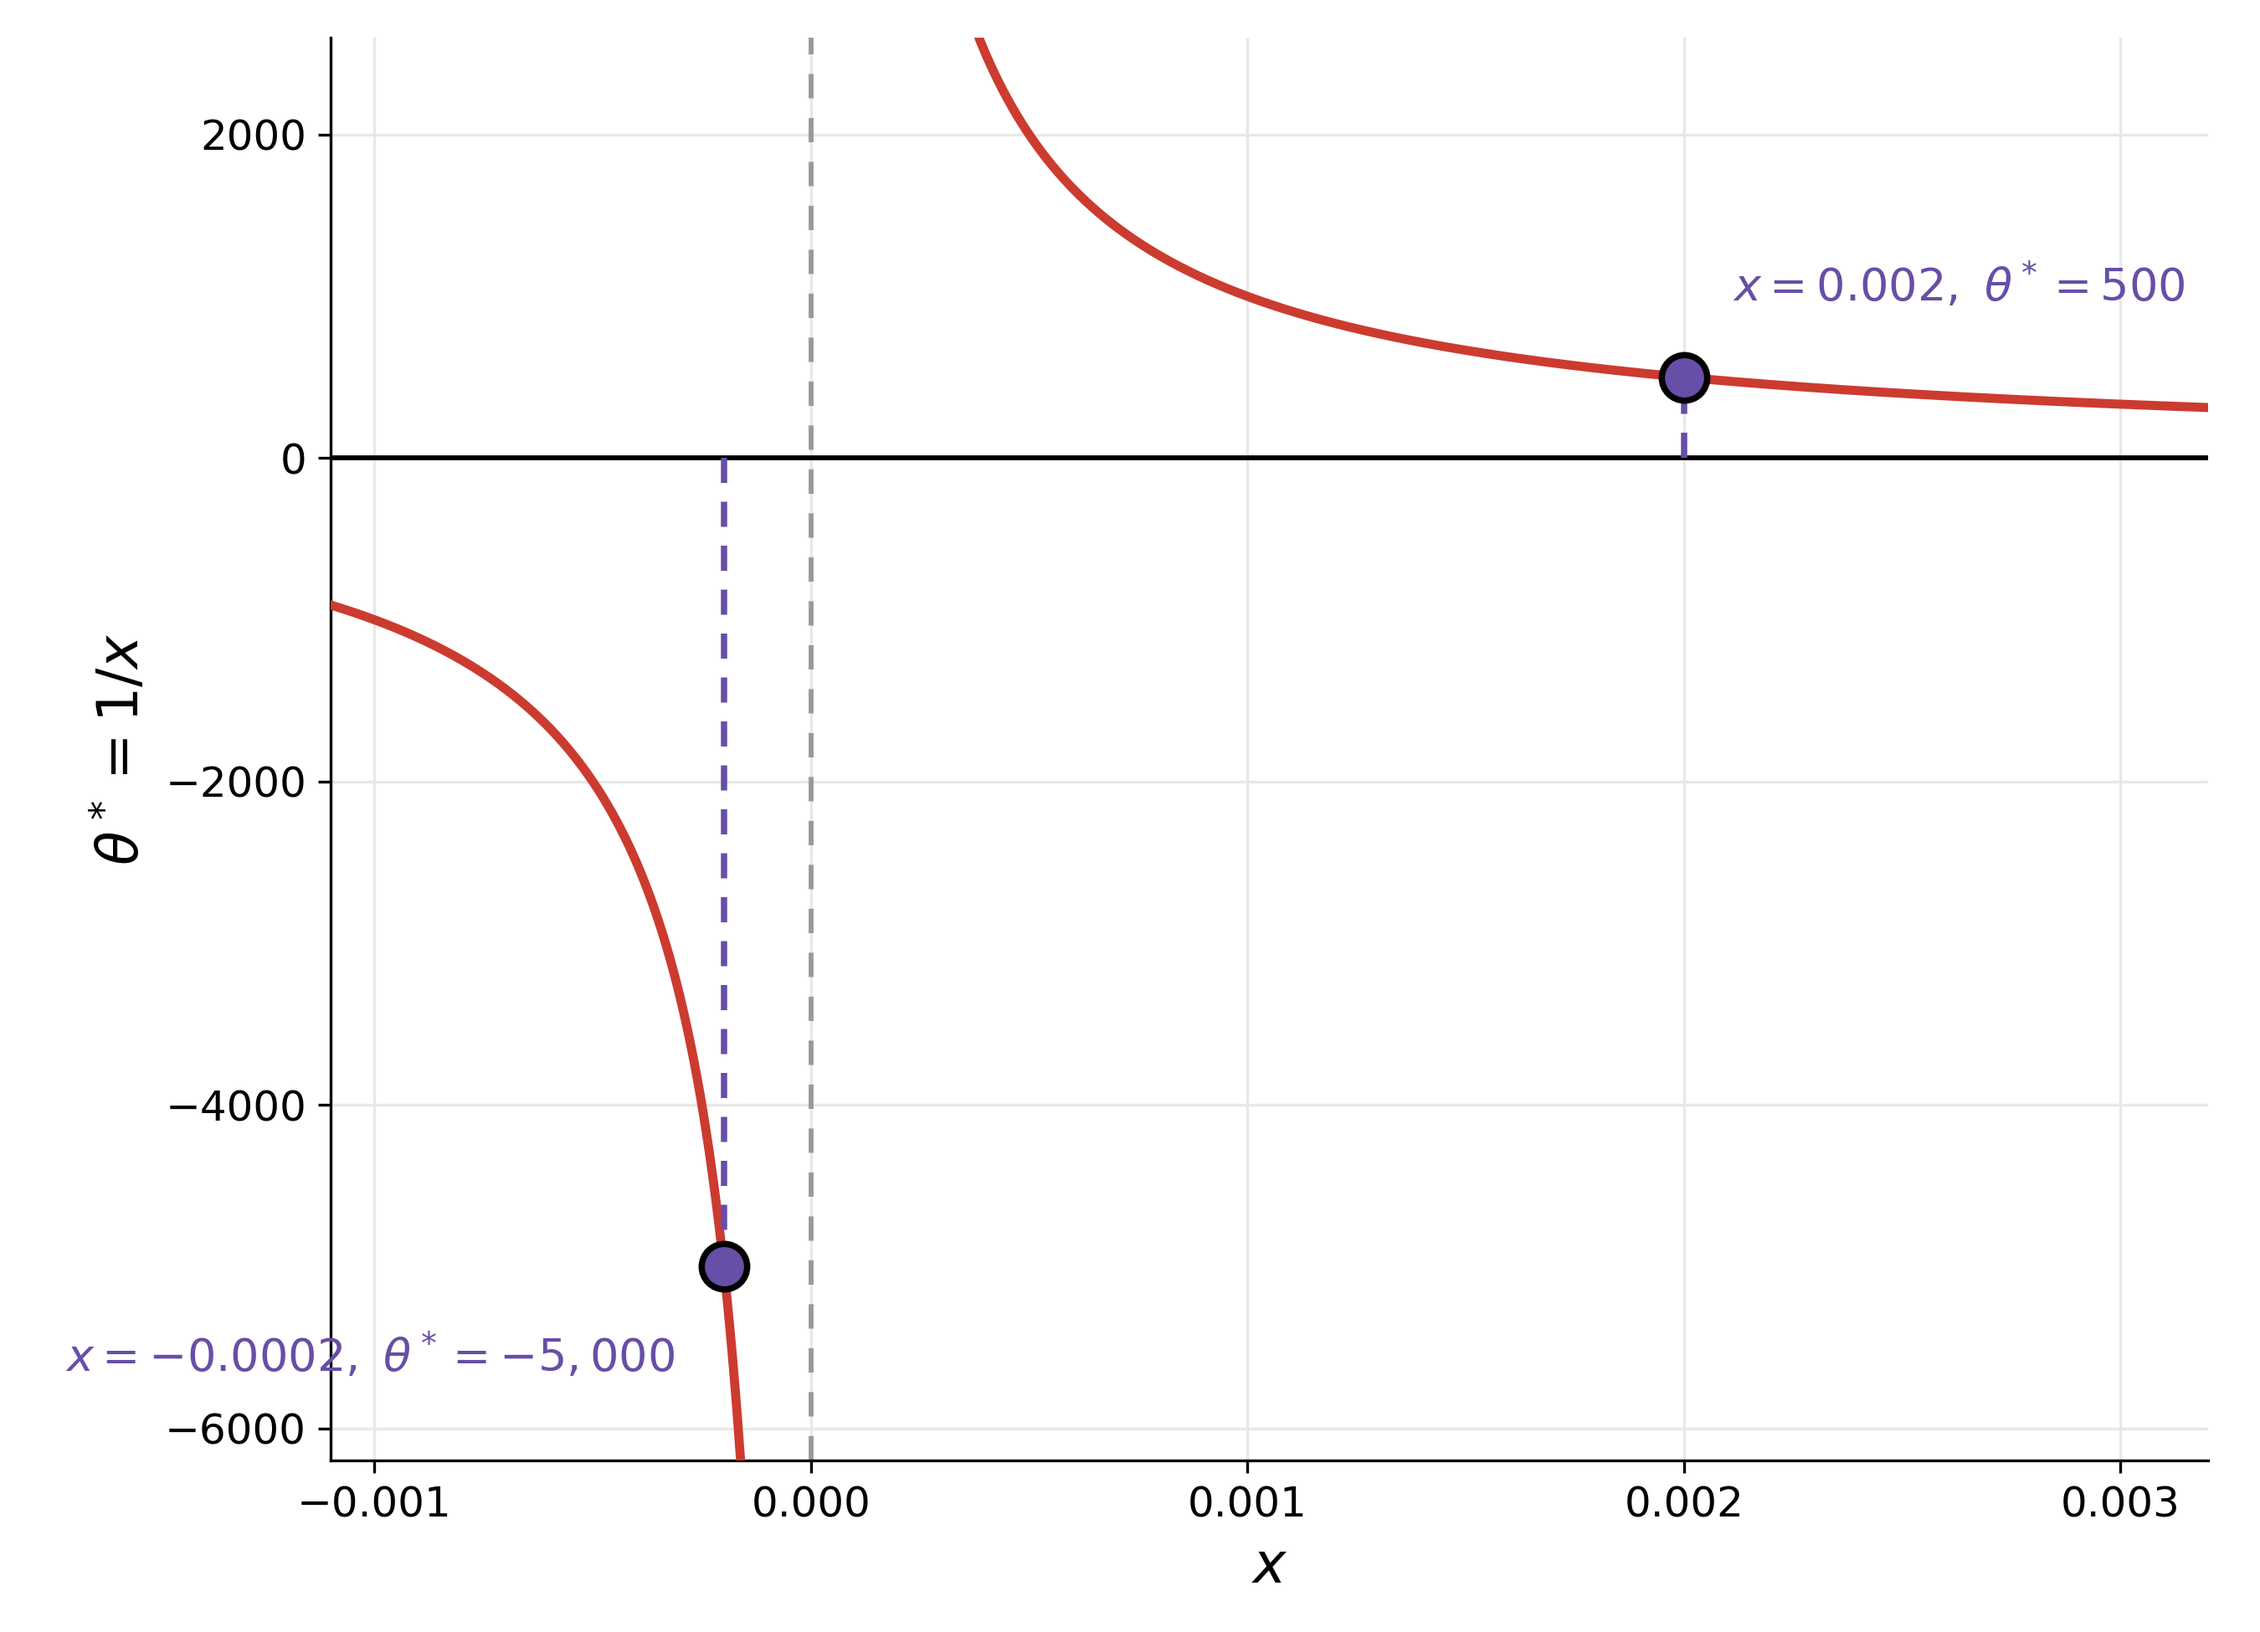
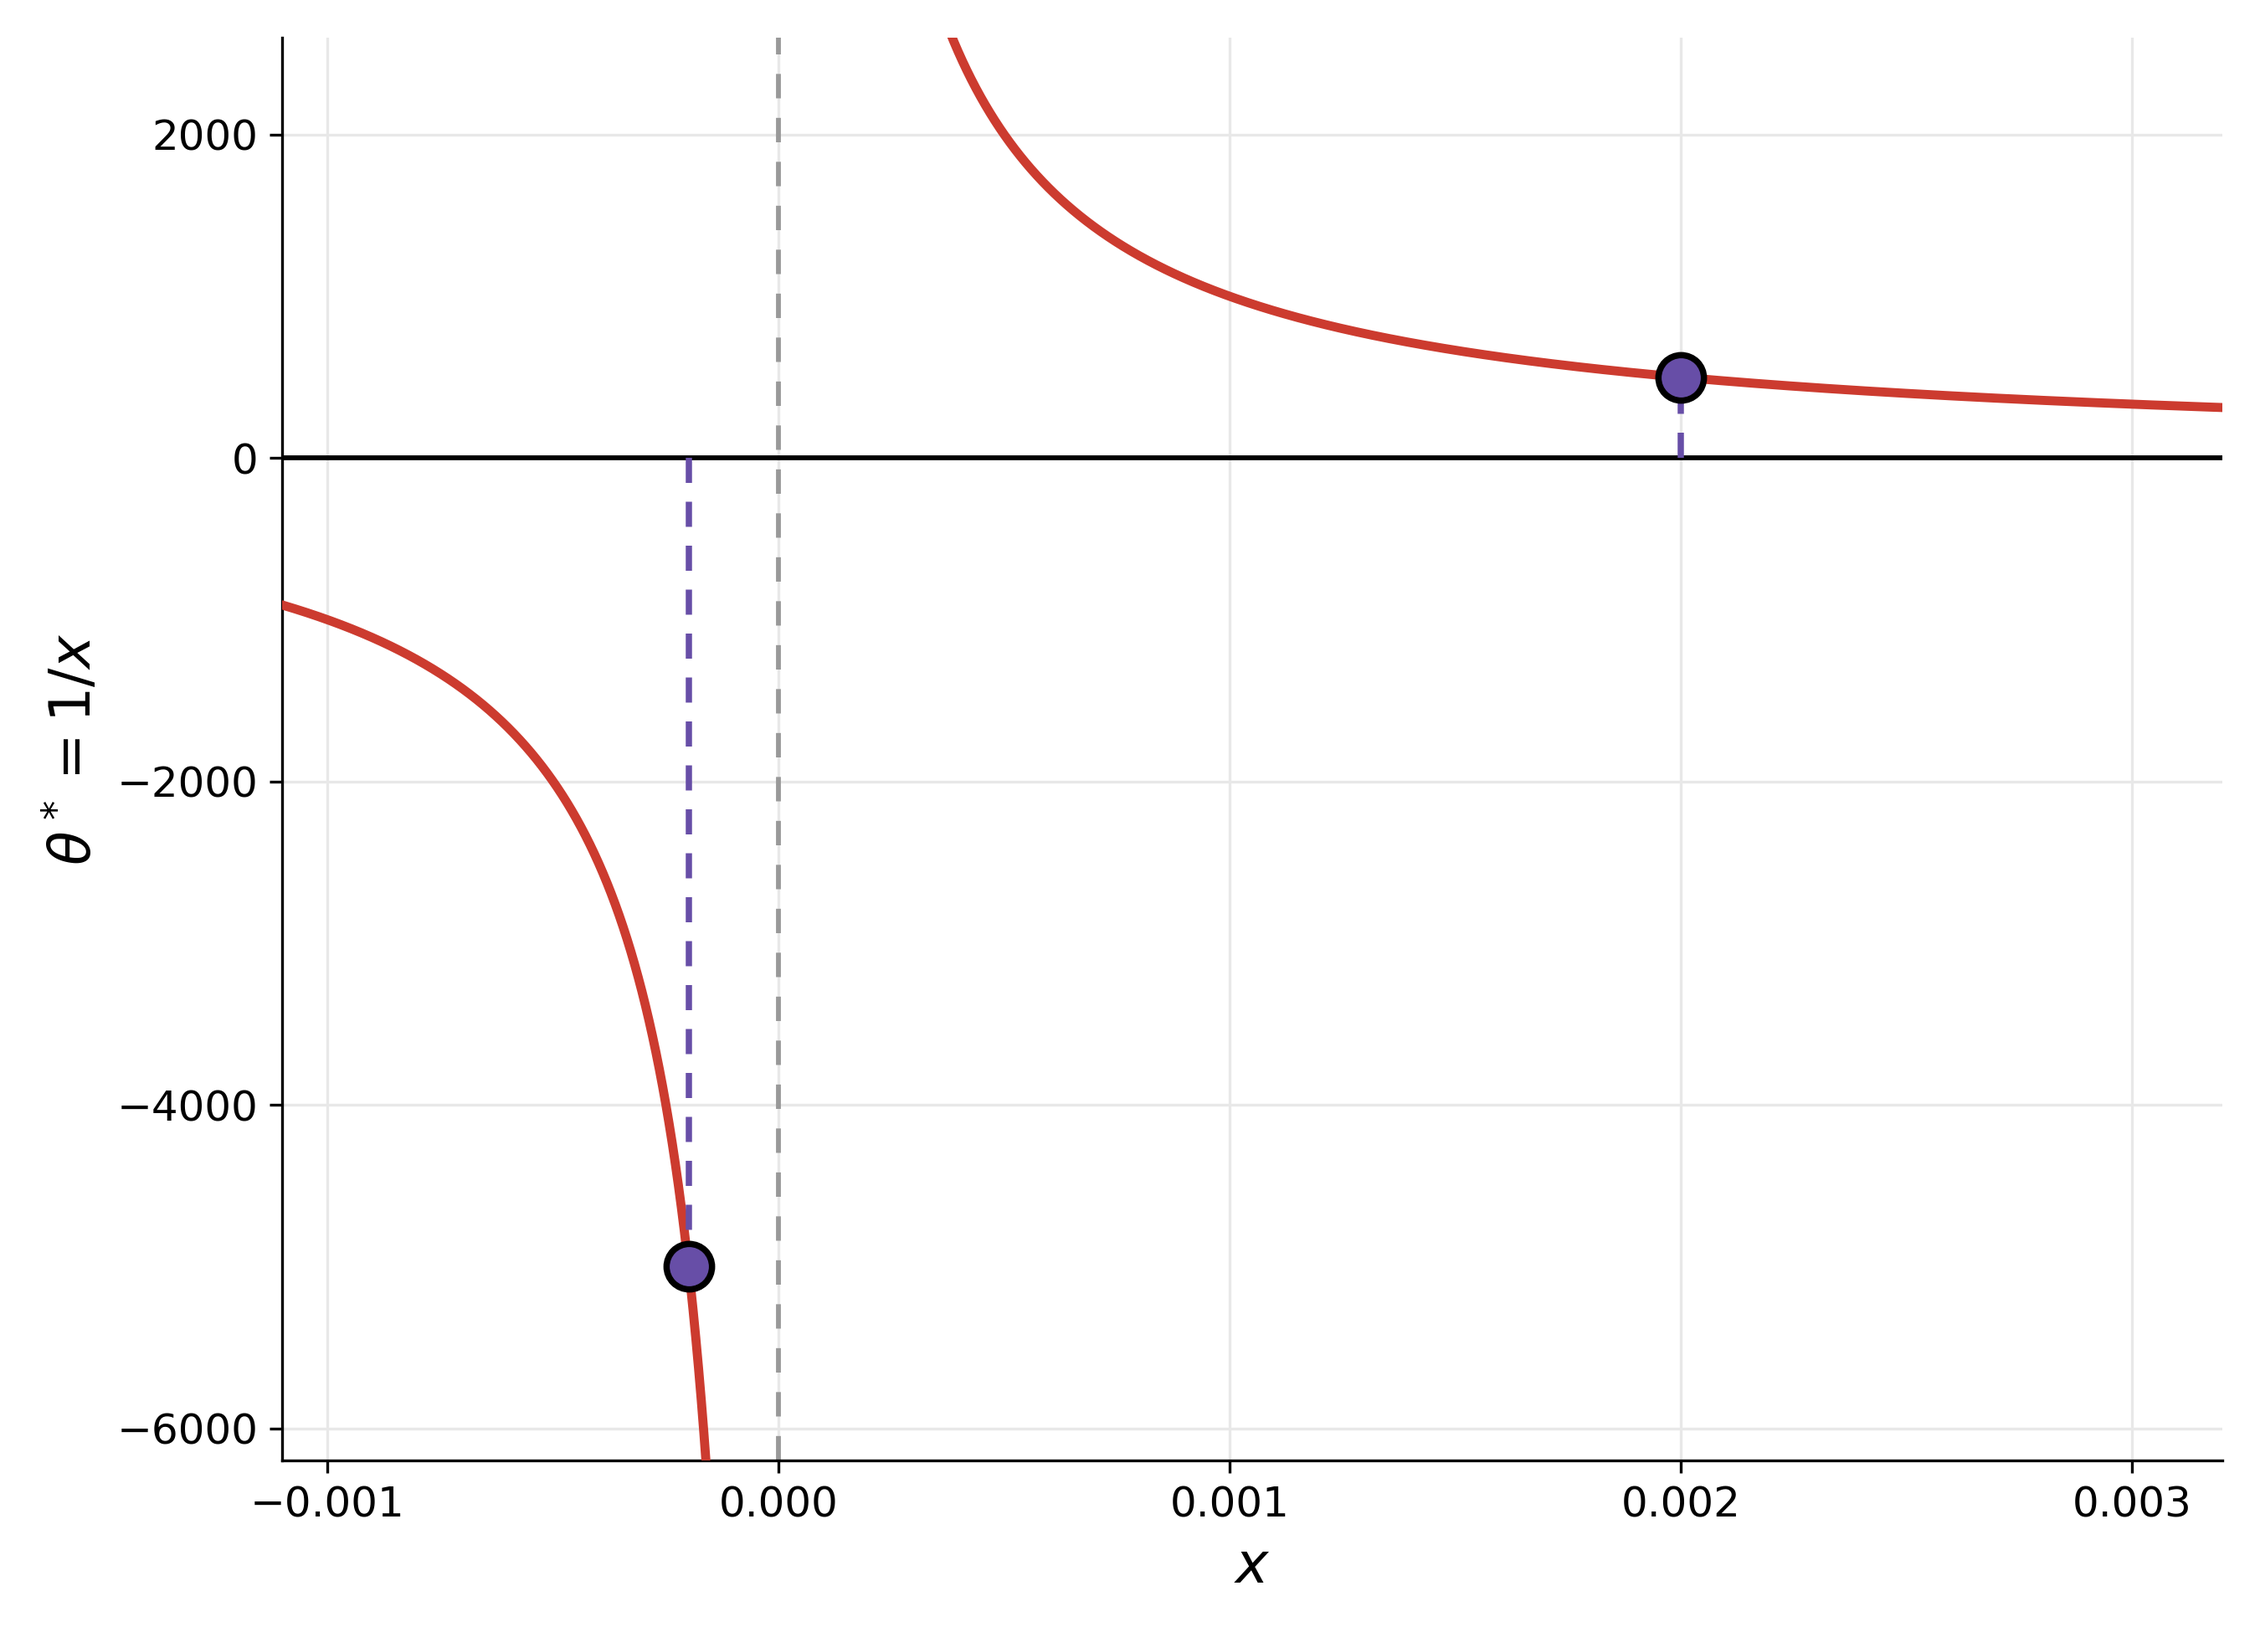
ridge/theta-one-over-x: markers only, the slide carries its own labels

diff --git a/ridge/theta-one-over-x.py b/ridge/theta-one-over-x.py
@@ -32,15 +32,14 @@ ax.axvline(0.0, color='#999999', linestyle='--', dashes=(5, 4), linewidth=1.4, z
 # Axes through the origin rather than around the outside, so the sign flip reads
 ax.axhline(0.0, color='black', linewidth=1.4, zorder=2)
 
+# Markers and drop lines only, no captions. Slide 25 already carries its own text
+# blocks for both cases, positioned over the plot area, so baking the same words
+# into the raster would duplicate them and make them impossible to reposition.
 for x, th in POINTS:
     ax.plot([x, x], [0, th], color=ACCENT, linestyle='--', dashes=(4, 3),
             linewidth=1.8, zorder=4)
     ax.scatter([x], [th], s=170, color=ACCENT, edgecolors='black',
                linewidth=1.8, zorder=6)
-    ax.annotate(r'$x=%s,\ \theta^*=%s$' % (('%g' % x), ('{:,.0f}'.format(th))),
-                xy=(x, th), xytext=(14 if x > 0 else -14, 22 if x > 0 else -30),
-                textcoords='offset points', fontsize=13,
-                ha='left' if x > 0 else 'right', color=ACCENT, zorder=7)
 
 ax.set_xlim(XMIN, XMAX)
 ax.set_ylim(YMIN, YMAX)
